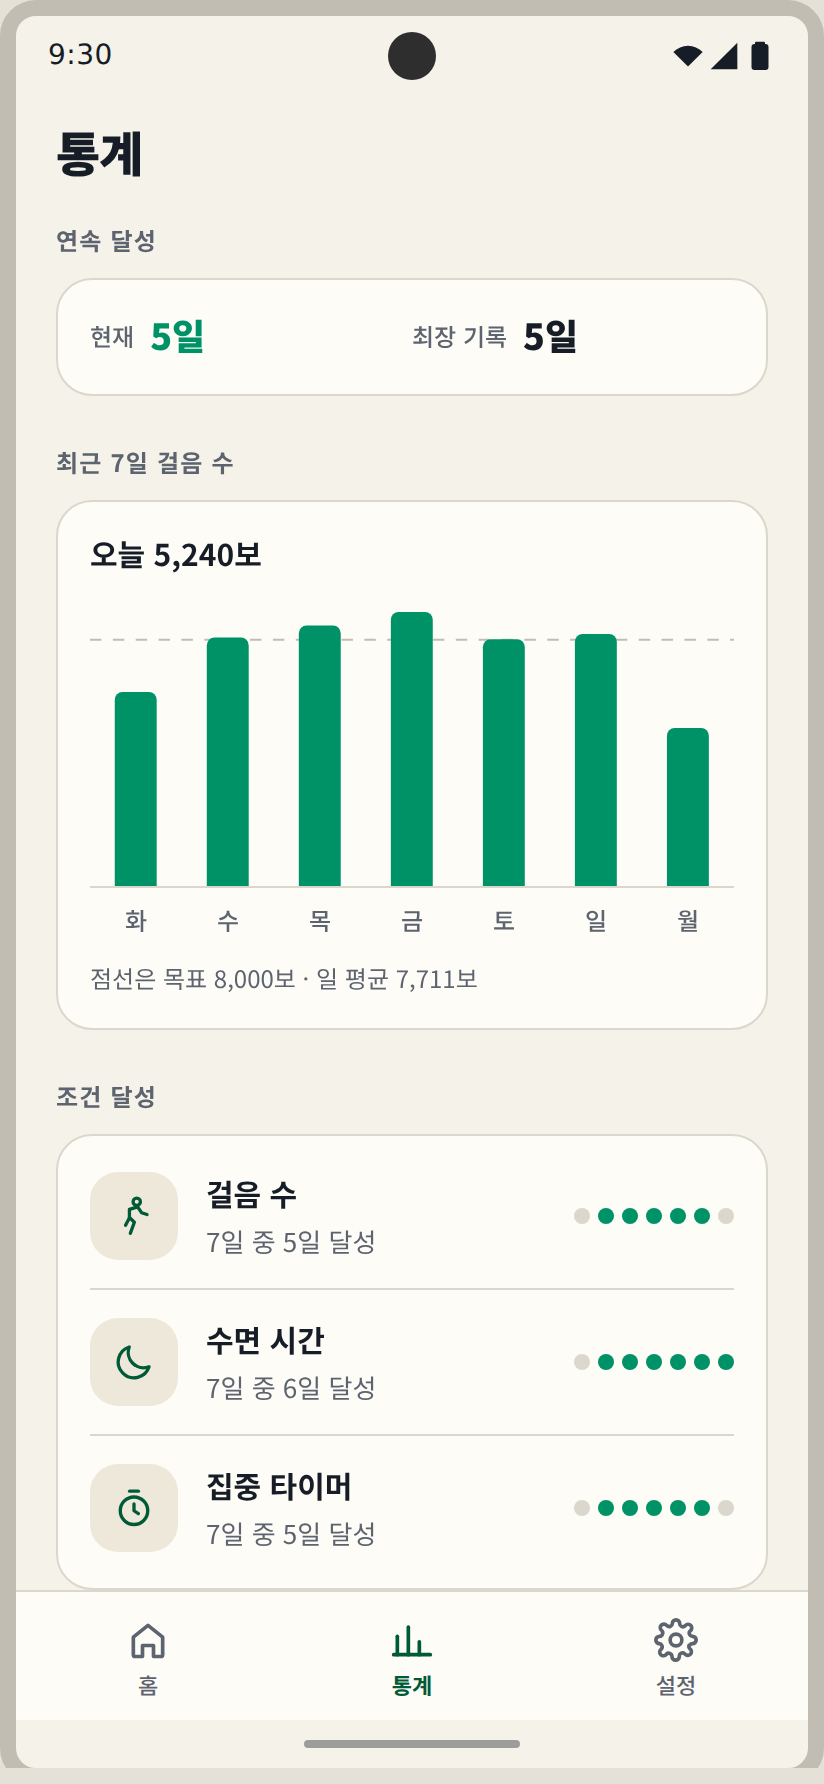
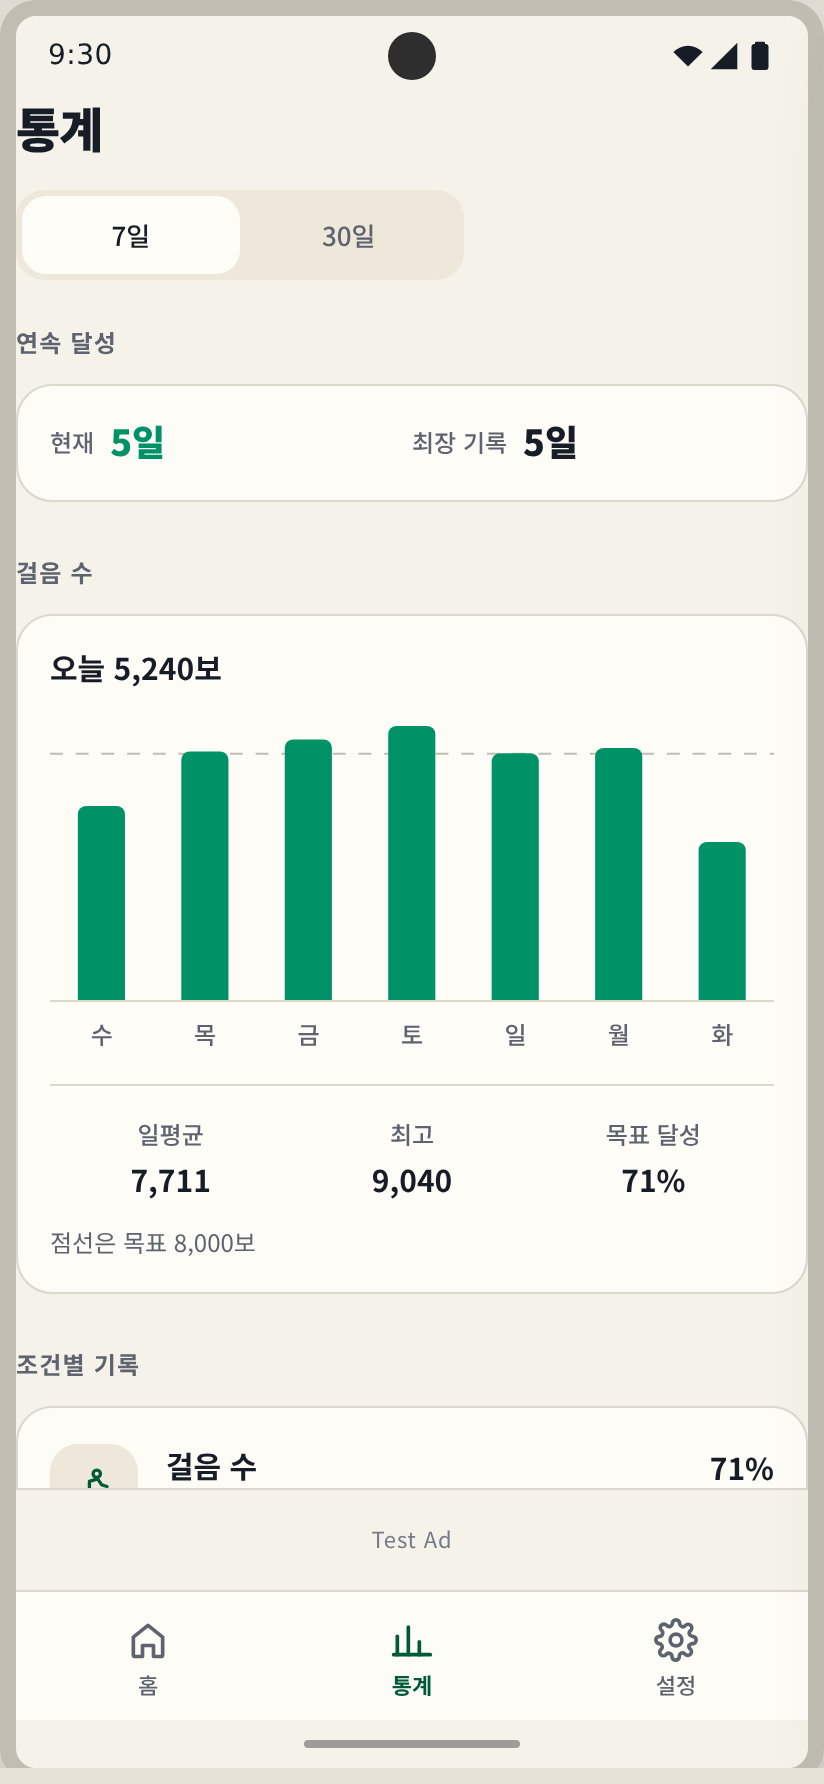
README 화면 이미지 갱신 — 되돌린 디자인이 섞여 있던 것까지
렌더 하네스가 코드를 따라가지 못하고 있었습니다. 어제 되돌린 다크 헤더와
주간 레일이 홈 화면에 그대로 남아 있어서, 다시 렌더하면 **코드에 없는
디자인**이 README에 올라갑니다. 캐릭터 색도 다크 팔레트가 들어가 있었습니다.

하네스를 코드 기준으로 맞췄습니다.
- 홈: 다크 헤더·주간 레일 제거, 인사 → 상태 → StepTrack → 나머지 조건 →
  앱 목록 순서, 캐릭터는 라이트 팔레트
- SlPanel: 그림자 대신 1dp 보더, 라운드 20 → 18dp(RadiusCard)
- SectionLabel: 17px 굵은 검정 → 12sp Bold · TextSecondary

오늘 바뀐 화면도 반영했습니다.
- 집중 타이머: 앉은 캐릭터(Focusing)
- 통계: 기간 전환, 요약 3칸, 조건별 일평균과 달성률, 하단 Test Ad 배너
- 설정: 마음이 바뀔 때 · 광고 섹션

완화 대기는 스크롤 아래에 있어 기존 프레임 캡처에 안 잡혀서, 같은 화면을
아래로 내린 상태를 08-relax.png 로 따로 넣고 해당 절에 붙였습니다.

캡션에 "실기기 캡처가 아닙니다"를 명시했습니다. 스토어 스크린샷으로는 쓸 수
없는 이미지라 헷갈리면 안 됩니다.

화면 표의 Settings·Pomodoro·Stats 설명과 캐릭터 절(자세 3종, 쓰는 자리 7곳),
재사용 컴포저블 표도 실제와 맞췄습니다.

Claude-Session: https://claude.ai/code/session_01TfDVSB28YoT3k36WsBEoLF

diff --git a/README.md b/README.md
@@ -21,7 +21,7 @@
   <img src="docs/screens/06-pomodoro.png" width="22%" alt="집중 타이머" />
 </p>
 
-<p align="center"><sub>412×892 프레임 · 구현과 같은 OKLCH 토큰·간격·아이콘으로 렌더한 이미지입니다</sub></p>
+<p align="center"><sub>412×892 프레임 · 구현과 같은 OKLCH 토큰·간격·아이콘으로 렌더한 이미지입니다 (실기기 캡처가 아닙니다)</sub></p>
 
 ## 캐릭터
 
@@ -36,12 +36,31 @@
 
 앱 안에서는 비트맵을 쓰지 않고 100×124 좌표계로 **다시 그려**
 ([`StepLockMascot.kt`](app/src/main/java/com/steplock/app/ui/components/StepLockMascot.kt))
-다리 스윙과 상하 반동만 900ms 주기로 움직입니다. 어떤 크기에서도 선명하고, 색은 팔레트 토큰을
-그대로 받습니다.
+캔버스로 움직입니다. 어떤 크기에서도 선명하고, 색은 팔레트 토큰을 그대로 받습니다.
 
-- **온보딩** — 걸어 들어오는 첫 화면
-- **홈** — 맨 위 상태 카드 안에서 걷다가, 잠금이 풀리면 멈추고 눈을 감습니다(상태를 형태로 보여줌)
-- **잠금** — 어두운 배경용 그린으로 색만 바꿔 같은 도형을 씁니다. 아직 걷고 있다는 게 곧 아직 못 열었다는 뜻입니다
+**자세가 상태를 말합니다** — 글자를 읽지 않아도 지금 어떤 상태인지 보이게.
+
+| 자세 | 뜻 | 움직임 |
+| --- | --- | --- |
+| `Walking` | 목표까지 남음 | 다리 스윙 + 상하 반동, 900ms |
+| `Resting` | 달성 · 대기 | **완전 정지.** 애니메이션 값을 읽지 않습니다 |
+| `Focusing` | 집중 세션 진행 중 | 앉은 자세, 숨결만 2600ms 왕복 |
+
+`Resting`이 값을 아예 읽지 않는 건 의도입니다 — 멈춘 상태에 미세한 움직임이 남으면 그게 더
+눈에 걸리고, 매 프레임 다시 그리게 됩니다.
+
+쓰는 자리는 일곱 곳입니다. 로그인·설정·차트 안·달성 축하 연출에는 **넣지 않았습니다**
+(기준은 [DESIGN.md 4-4절](DESIGN.md)).
+
+| 자리 | 크기 | 자세 |
+| --- | --- | --- |
+| 온보딩 | 96×119dp | 걸어 들어오는 첫 화면 |
+| 홈 (`StepTrack` 위) | 44×55dp | 진행률을 **위치**로 — 걷다가 달성하면 멈춰 섭니다 |
+| 잠금 | 80×99dp | 어두운 배경용 그린. 아직 걷고 있다는 게 곧 아직 못 열었다는 뜻 |
+| 집중 타이머 | 56×69dp | 세션이 도는 동안 함께 앉아 있습니다 |
+| 빈 상태 | 36×45dp | 빈 화면이 고장처럼 보이지 않게 |
+| 스플래시 | 288×288 벡터 | 앱을 켤 때 (정지) |
+| 앱 · 알림 아이콘 | 적응형 / 24dp | 자물쇠 기호 (캐릭터가 아님) |
 
 ---
 
@@ -52,10 +71,10 @@
 | **Login** | 앱 첫 화면. 밑줄형 입력 · 로그인 유지 · 소셜 3종 · 게스트 진입 | [`LoginScreen.kt`](app/src/main/java/com/steplock/app/ui/screens/LoginScreen.kt) |
 | **Onboarding** | 잠금 해제 조건 3가지 안내 + 권한 3단계 요청 | [`OnboardingScreen.kt`](app/src/main/java/com/steplock/app/ui/screens/OnboardingScreen.kt) |
 | **Home** | 맨 위에 오늘 잠금이 풀렸는지 한 장으로, 아래에 조건별 진행과 차단 앱 | [`HomeScreen.kt`](app/src/main/java/com/steplock/app/ui/screens/HomeScreen.kt) |
-| **Settings** | 조건별 토글 + 목표값 스테퍼, 차단할 앱 선택 | [`SettingsScreen.kt`](app/src/main/java/com/steplock/app/ui/screens/SettingsScreen.kt) |
+| **Settings** | 조건별 토글 + 목표값 스테퍼, 차단할 앱 선택, 완화 대기 기간, 광고 안내 | [`SettingsScreen.kt`](app/src/main/java/com/steplock/app/ui/screens/SettingsScreen.kt) |
 | **Lock** | 차단 앱 실행 시 덮이는 전체 화면 오버레이. 켜 둔 조건 하나만 링으로 크게, 나머지는 칩으로 (다크 팔레트) | [`LockOverlayScreen.kt`](app/src/main/java/com/steplock/app/ui/screens/LockOverlayScreen.kt) |
-| **Pomodoro** | 25분 집중 세션 타이머. 홈의 집중 타이머 줄에서 진입 | [`PomodoroScreen.kt`](app/src/main/java/com/steplock/app/ui/screens/PomodoroScreen.kt) |
-| **Stats** | 최근 7일 걸음 막대 차트와 조건별 달성 일수 | [`StatsScreen.kt`](app/src/main/java/com/steplock/app/ui/screens/StatsScreen.kt) |
+| **Pomodoro** | 25분 집중 세션 타이머. 세션이 도는 동안 캐릭터가 앉습니다 | [`PomodoroScreen.kt`](app/src/main/java/com/steplock/app/ui/screens/PomodoroScreen.kt) |
+| **Stats** | 7일 / 30일 전환, 걸음 차트와 요약 3칸, 조건별 일평균과 달성률 | [`StatsScreen.kt`](app/src/main/java/com/steplock/app/ui/screens/StatsScreen.kt) |
 
 화면 이동: `Login → Onboarding → Home`, 홈에서 설정 · 집중 타이머 · 잠금 오버레이로 들어갑니다.
 하단 탭은 홈 · 통계 · 설정이고, 온보딩을 마친 기기는 다음 실행부터 로그인을 건너뛰고 홈에서 시작합니다.
@@ -133,6 +152,10 @@
 화면에 반영돼 보이지 않으면 눌리지 않은 것처럼 느껴집니다. 언제 적용되는지는 설정 화면
 맨 위 앰버 패널이 알려 줍니다.
 
+<p align="center">
+  <img src="docs/screens/08-relax.png" width="46%" alt="설정 — 완화 대기 기간과 예약 안내" />
+</p>
+
 앱 삭제와 권한 끄기는 여전히 뚫립니다. 막을 방법이 없고, **막아서도 안 되는 안전장치**입니다.
 
 ---
@@ -207,6 +230,10 @@ Noto Sans KR 400/500/700/900. 화면에서 쓰는 스타일을 [`Type.kt`](app/s
 | `SlSwitch` · `CheckboxMark` | 시안 규격(52×32 트랙, 24dp 체크박스)에 맞춘 선택 컨트롤. |
 | `BottomNavBar` | 홈 · 통계 · 설정 탭. 라벨 표시를 끌 수 있습니다. |
 | `WeeklyBarChart` | 일별 막대 하나에 값 하나. 영점에서 시작하고 목표는 점선으로만 표시합니다. |
+| `StepTrack` | 진행률을 링이 아니라 캐릭터의 **위치**로 보여 줍니다. 지나온 길은 실선, 남은 길은 점선. |
+| `SlSegmented` | 2~4칸 전환 막대. **보는 범위만** 바꿉니다(통계 기간, 완화 대기) — 화면 이동은 하단 탭바. |
+| `SlEmptyState` | 빈 패널 안의 안내. 작은 캐릭터를 함께 두어 고장처럼 보이지 않게 합니다. |
+| `SlBannerAd` | 앵커드 어댑티브 배너. **통계 화면에만** 붙입니다. |
 | `SlPanel` · `SectionLabel` · `PrimaryButton` · `TextLink` · `IconTile` · `AppBadge` | 공통 레이아웃 조각. |
 
 ---
